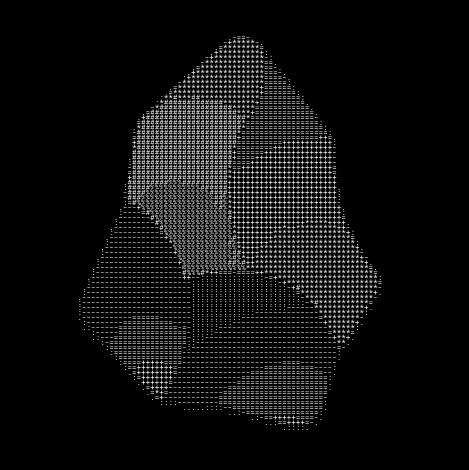
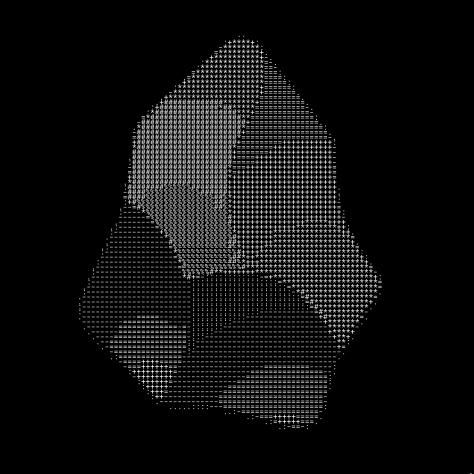
Fixed dimensions bug

Changed region(s): [[0.1493, 0.0596, 0.806, 0.9234]]

diff --git a/src/core/image_to_ascii.rs b/src/core/image_to_ascii.rs
@@ -9,41 +9,59 @@ const ASCII_SCALE: &[char] = &[' ', '.', ':', '-', '=', '+', '*', '#', '%', '@']
 pub fn render_image_to_ascii(input_path: &str, output_path: &str) -> Result<()> {
     let font_data = include_bytes!("../../assets/RobotoMono-Regular.ttf");
     let font = FontRef::try_from_slice(font_data)?;
-    let (advance, _, font_aspect) = get_font_metrics(&font, CHAR_HEIGHT as f32);
+    let (advance, glyph_height, _) = get_font_metrics(&font, CHAR_HEIGHT as f32);
 
     let img = ImageReader::open(input_path)?.decode()?;
-    let (width, _height) = img.dimensions();
+    let (width, height) = img.dimensions();
 
-    let block_w = width as f32 / ((width as f32 / advance).floor().max(1.0));
-    let block_h = block_w / font_aspect;
+    // Calculate cols based on width, then rows to maintain aspect ratio
+    // Aspect ratio: width/height = (cols * advance) / (rows * glyph_height)
+    // Therefore: rows = cols * advance * height / (width * glyph_height)
+    let cols = (width as f32 / advance).round().max(1.0) as u32;
+    let rows = ((cols as f32 * advance * height as f32) / (width as f32 * glyph_height))
+        .round()
+        .max(1.0) as u32;
 
-    let ascii = image_to_ascii(&img, block_w, block_h);
+    // Calculate block size based on character counts
+    let block_w = width as f32 / cols as f32;
+    let block_h = height as f32 / rows as f32;
 
-    render_image_to_ascii_core(&ascii, &font, output_path)?;
+    let ascii = image_to_ascii(&img, block_w, block_h, cols, rows);
+
+    render_image_to_ascii_core(&ascii, &font, output_path, width, height)?;
     Ok(())
 }
 
-pub fn render_image_to_ascii_core(ascii: &str, font: &FontRef, output_path: &str) -> Result<()> {
+pub fn render_image_to_ascii_core(
+    ascii: &str,
+    font: &FontRef,
+    output_path: &str,
+    orig_width: u32,
+    orig_height: u32,
+) -> Result<()> {
     let char_height = CHAR_HEIGHT as f32;
-    let (advance, glyph_height, _) = get_font_metrics(font, char_height);
+    let (advance, _glyph_height, _) = get_font_metrics(font, char_height);
 
-    let lines: Vec<&str> = ascii.lines().collect();
-    let num_lines = lines.len();
-    let max_chars = lines.iter().map(|l| l.chars().count()).max().unwrap_or(0);
-
-    let raw_width = (max_chars as f32 * advance).ceil() as u32;
-    let raw_height = (num_lines as f32 * glyph_height).ceil() as u32;
+    // Use original image dimensions for output
+    let raw_width = orig_width;
+    let raw_height = orig_height;
 
     let mut img_buf: ImageBuffer<Luma<u8>, Vec<u8>> =
         ImageBuffer::from_pixel(raw_width.max(1), raw_height.max(1), Luma([0]));
 
+    let lines: Vec<&str> = ascii.lines().collect();
+
+    // Scale glyph positions to fit within the output dimensions
+    let num_lines = lines.len().max(1) as f32;
+    let scaled_glyph_height = raw_height as f32 / num_lines;
+
     for (row, line) in lines.iter().enumerate() {
-        let row_y = row as f32 * glyph_height;
+        let row_y = row as f32 * scaled_glyph_height;
         let mut caret_x = 0.0f32;
 
         for ch in line.chars() {
             let mut glyph = font.as_scaled(char_height).scaled_glyph(ch);
-            glyph.position = point(caret_x, row_y + glyph_height);
+            glyph.position = point(caret_x, row_y + scaled_glyph_height);
 
             if let Some(outlined) = font.outline_glyph(glyph) {
                 let bounds = outlined.px_bounds();
@@ -65,12 +83,19 @@ pub fn render_image_to_ascii_core(ascii: &str, font: &FontRef, output_path: &str
     Ok(())
 }
 
-pub fn image_to_ascii(img: &DynamicImage, block_w: f32, block_h: f32) -> String {
+pub fn image_to_ascii(
+    img: &DynamicImage,
+    block_w: f32,
+    block_h: f32,
+    cols: u32,
+    rows: u32,
+) -> String {
     let rgba_img = img.to_rgba8();
     let (width, height) = rgba_img.dimensions();
 
-    let new_width = (width as f32 / block_w) as u32;
-    let new_height = (height as f32 / block_h) as u32;
+    // Use the pre-calculated dimensions
+    let new_width = cols;
+    let new_height = rows;
 
     let mut buffer = String::with_capacity((new_width * new_height) as usize + new_height as usize);
 
